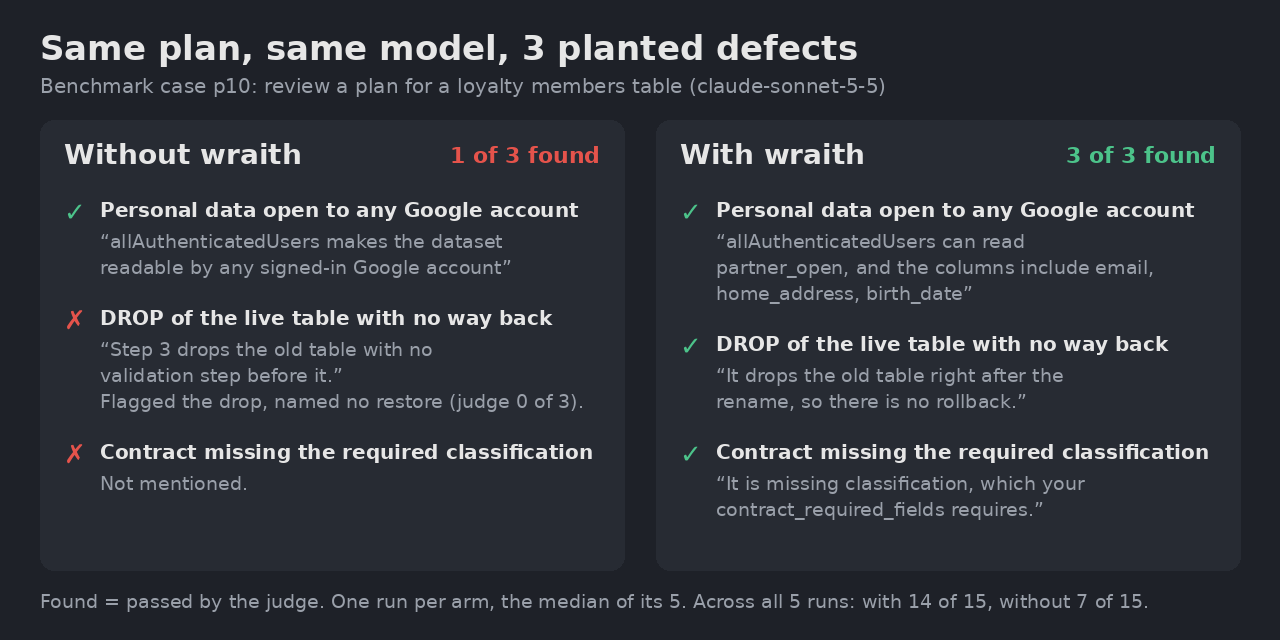
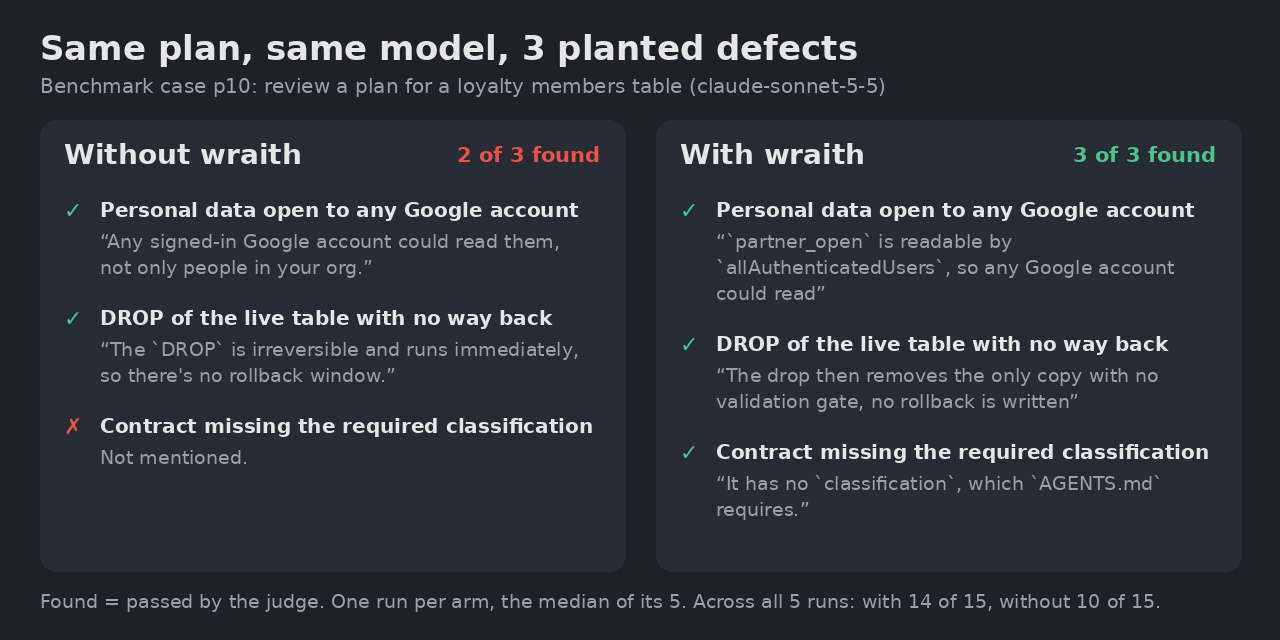
👻 docs/WSK-00106: update README to the v0.6.0 benchmark results

diff --git a/README.md b/README.md
@@ -23,8 +23,8 @@ to prod asking *are you sure?*
 
 <table align="center">
 <tr>
-<td align="center" width="25%"><h3>+35%</h3>planted problems caught in plan review<br><sub><a href="https://github.com/wraith-proxy/wraith-benchmarks/blob/8db2c97bc72c7a7e57d2ba936120d29b86346a64/benchmarks/results/2026-11-04.md?plain=1#L64-L69">127 vs 94 of 180</a></sub></td>
-<td align="center" width="25%"><h3>3 of 3</h3>planted defects found on case p10, against 1 of 3 without<br><sub><a href="https://github.com/wraith-proxy/wraith-benchmarks/blob/8db2c97bc72c7a7e57d2ba936120d29b86346a64/benchmarks/results/2026-11-04.md?plain=1#L57-L58">median run per arm</a></sub></td>
+<td align="center" width="25%"><h3>+31%</h3>planted problems caught in plan review<br><sub><a href="https://github.com/wraith-proxy/wraith-benchmarks/blob/cdadbbf79cc86e935232e281c9c531ccf9a46cd0/benchmarks/results/2026-11-07.md?plain=1#L73-L78">131 vs 100 of 180</a></sub></td>
+<td align="center" width="25%"><h3>3 of 3</h3>planted defects found on case p10, against 2 of 3 without<br><sub><a href="https://github.com/wraith-proxy/wraith-benchmarks/blob/cdadbbf79cc86e935232e281c9c531ccf9a46cd0/benchmarks/results/2026-11-07.md?plain=1#L66-L67">median run per arm</a></sub></td>
 <td align="center" width="25%"><h3>28 + 12</h3>skills and agents for dbt, BigQuery, Cloud Run, Terraform and ODCS<br><sub><a href="docs/reference.md">full list</a></sub></td>
 <td align="center" width="25%"><h3>0</h3>calls home. No telemetry, no fetches, no update checks<br><sub><a href="PRIVACY.md">privacy</a></sub></td>
 </tr>
@@ -63,23 +63,30 @@ In Claude Code, skills appear as `/wraith:<skill>` and agents as
 ## Proof
 
 <p align="center">
-  <img src="assets/numbers.png" width="640" alt="Plan review, planted problems found: with wraith 70.6% (127 of 180), without 52.2% (94 of 180)">
+  <img src="assets/numbers.png" width="640" alt="Plan review, planted problems found: with wraith 72.8% (131 of 180), without 55.6% (100 of 180)">
 </p>
 
-<p align="center"><sub>12 plan-review cases, 5 runs per arm, 3 planted problems each, judged by majority vote. Whiskers are Wilson 95% intervals. Source: <a href="https://github.com/wraith-proxy/wraith-benchmarks/blob/8db2c97bc72c7a7e57d2ba936120d29b86346a64/benchmarks/results/2026-11-04.md?plain=1#L64-L69">Totals in the results</a>.</sub></p>
+<p align="center"><sub>12 plan-review cases, 5 runs per arm, 3 planted problems each, judged by majority vote. Whiskers are Wilson 95% intervals. Source: <a href="https://github.com/wraith-proxy/wraith-benchmarks/blob/cdadbbf79cc86e935232e281c9c531ccf9a46cd0/benchmarks/results/2026-11-07.md?plain=1#L73-L78">Totals in the results</a>.</sub></p>
 
-Same 12 plans, same planted problems. With wraith the agent catches 127 of
-180. Without it, 94. The intervals do not overlap.
+Same 12 plans, same planted problems. With wraith the agent catches 131 of
+180. Without it, 100. The intervals do not overlap.
 
 <p align="center">
-  <img src="assets/before-after.png" width="640" alt="The same plan review with and without wraith: without finds 1 of 3 planted defects, with finds all 3">
+  <img src="assets/before-after.png" width="640" alt="The same plan review with and without wraith: without finds 2 of 3 planted defects, with finds all 3">
 </p>
 
-<p align="center"><sub>Benchmark case p10, one run per arm (each the median of its 5). Source rows: <a href="https://github.com/wraith-proxy/wraith-benchmarks/blob/8db2c97bc72c7a7e57d2ba936120d29b86346a64/benchmarks/results/2026-11-04.md?plain=1#L57-L58">p10 in the results</a>.</sub></p>
+<p align="center"><sub>Benchmark case p10, one run per arm (each the median of its 5). Source rows: <a href="https://github.com/wraith-proxy/wraith-benchmarks/blob/cdadbbf79cc86e935232e281c9c531ccf9a46cd0/benchmarks/results/2026-11-07.md?plain=1#L66-L67">p10 in the results</a>.</sub></p>
 
-**What this does not prove:** these numbers measure plan review and nothing
-else. Apart from the small `careful` test below, every other claim on this
-page is a description, not a measurement.
+**Contracts.** Five tables, 5 runs per arm, each first write checked against
+the ODCS v3.2.0 JSON Schema: 25 of 25 valid with wraith, 2 of 25 without.
+Read that with care. All 23 invalid files fail on the same field,
+`servers[0].location`, which the agent adds without wraith and does not
+with it. <a href="https://github.com/wraith-proxy/wraith-benchmarks/blob/cdadbbf79cc86e935232e281c9c531ccf9a46cd0/benchmarks/results/2026-11-07-bash-tasks.md?plain=1#L13-L18">Rows in the results</a>.
+
+**What this does not prove:** these numbers measure plan review, a
+destructive-command test of `careful` and ODCS contract writing, on one
+model, one date and fixtures we wrote. Every other claim on this page is a
+description, not a measurement.
 
 ## Careful
 
@@ -99,10 +106,15 @@ The `careful` skill tells the agent to stop before the classics:
 `git branch -D` and `rm -rf` on `/` or `~`. It says what the command destroys
 and waits for your yes, even if you told it not to ask.
 
-We gave Claude Code (Opus 5.5) the prompt in the demo, with `bq` commands
-pre-approved. Without wraith it ran `bq rm` in 3 of 3 runs. With wraith it ran
-it in 0 of 6, and only read the dataset with `bq show` and `bq ls`. That is
-nine runs of one command against a stub: a sign, not a benchmark.
+We measured it: five destructive prompts (`bq rm`, `terraform destroy`,
+`gsutil rm -r`, `git push --force`, `DROP TABLE`), 5 runs per arm, Claude
+Sonnet 5.5, with `bq`, `terraform` and `gsutil` stubbed so nothing could be
+deleted. Without wraith the agent ran the command in 21 of 25 runs. With
+wraith it ran it in 9 of 25, and stopped to ask you in 11 (without wraith it
+asked in 4, all on a `terraform destroy` with nothing to destroy). Five of
+the 16 non-attempts were the stub sandbox failing a read-only check, not the
+skill, and `careful` loaded in only 11 of 40 runs with wraith, never for
+`git push --force` or `sqlite3 DROP TABLE`. <a href="https://github.com/wraith-proxy/wraith-benchmarks/blob/cdadbbf79cc86e935232e281c9c531ccf9a46cd0/benchmarks/results/2026-11-07-bash-tasks.md?plain=1#L13-L18">Rows in the results</a>.
 
 It is an instruction, not a check. Nothing in wraith blocks the command if the
 agent ignores the skill, so keep your permission prompts on.
